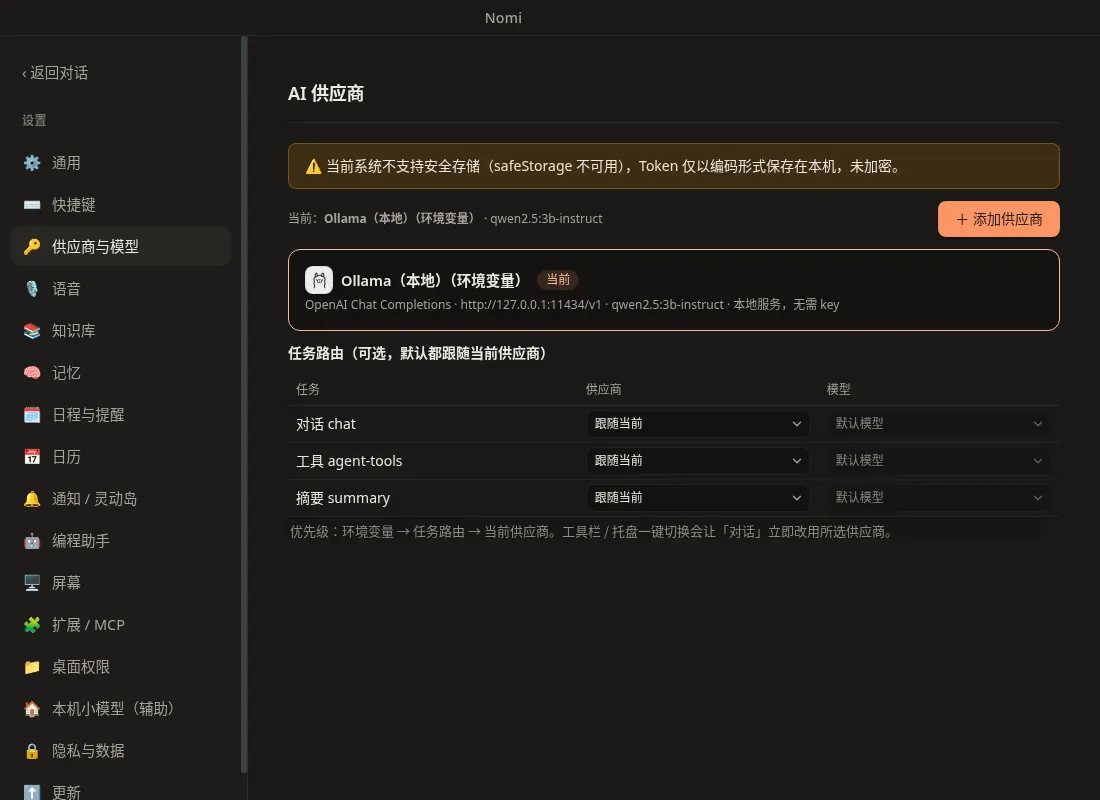
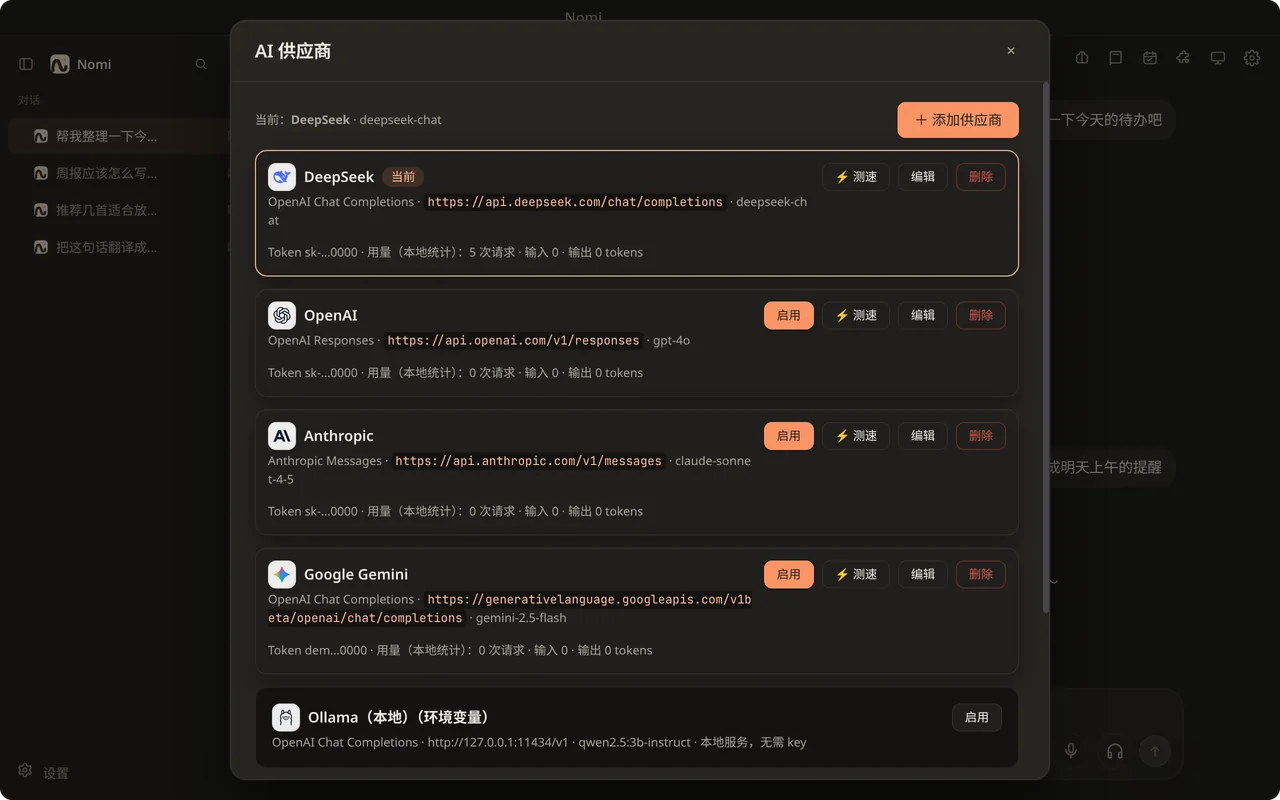
site: refresh product screenshots from app main (2x captures, 16:10 WebP 640/1280/2560), add knowledge/tools/local-models views, wire every features tab + home gallery to matching images, fix features tab layout shift

diff --git a/index.html b/index.html
@@ -12,7 +12,7 @@
   <link rel="icon" href="assets/brand/nomi-mark.svg" type="image/svg+xml" />
   <link rel="preload" href="assets/fonts/nunito-latin.woff2" as="font" type="font/woff2" crossorigin />
   <link rel="preload" as="image" href="assets/brand/nomi-brand-avatar-440.webp" imagesrcset="assets/brand/nomi-brand-avatar-440.webp 440w, assets/brand/nomi-brand-avatar-880.webp 880w" imagesizes="(max-width: 500px) calc(100vw - 6rem), 413px" fetchpriority="high" />
-  <link rel="stylesheet" href="css/styles.css?v=20261016b" />
+  <link rel="stylesheet" href="css/styles.css?v=20261016c" />
 </head>
 <body data-page="home" id="top">
   <header class="site-header">
@@ -112,7 +112,7 @@
             <p data-i18n="spot.companion.desc">分层立绘会眨眼、呼吸、说话。摸头互动，拖文件总结——她就站在你工作区的边角。</p>
           </div>
           <div class="spotlight-media spotlight-media--soft">
-            <img src="assets/screenshots/mascot.webp" data-i18n-alt="gallery.mascotAlt" alt="桌面伙伴 Nomi 立绘界面" width="330" height="355" loading="lazy" decoding="async" />
+            <img src="assets/screenshots/mascot.webp" srcset="assets/screenshots/mascot-330.webp 330w, assets/screenshots/mascot.webp 660w, assets/screenshots/mascot-2x.webp 990w" sizes="(max-width: 800px) 70vw, 22rem" data-i18n-alt="gallery.mascotAlt" alt="桌面伙伴 Nomi 的立绘、对话气泡与语音工具栏" width="660" height="710" loading="lazy" decoding="async" />
           </div>
         </div>
         <div class="spotlight spotlight--flip">
@@ -122,7 +122,7 @@
             <p data-i18n="spot.local.desc">对话与记忆留在本机；Key 加密；可开启仅本地模型。有用之外，还要让你安心。</p>
           </div>
           <div class="spotlight-media">
-            <img src="assets/screenshots/chat.webp" srcset="assets/screenshots/chat-640.webp 640w, assets/screenshots/chat.webp 1000w" sizes="(max-width: 800px) calc(100vw - 2.5rem), 560px" data-i18n-alt="gallery.chatAlt" alt="Nomi 对话窗口" width="640" height="400" loading="lazy" decoding="async" />
+            <img src="assets/screenshots/local-models.webp" srcset="assets/screenshots/local-models-640.webp 640w, assets/screenshots/local-models.webp 1280w, assets/screenshots/local-models-2x.webp 2560w" sizes="(max-width: 800px) calc(100vw - 2.5rem), 560px" data-i18n-alt="gallery.localModelsAlt" alt="本机小模型列表：按内存推荐模型，可一键下载并离线运行" width="1280" height="800" loading="lazy" decoding="async" />
           </div>
         </div>
       </div>
@@ -189,20 +189,28 @@
         </div>
         <div class="gallery">
           <figure class="gallery-item gallery-item--soft">
-            <img src="assets/screenshots/mascot.webp" data-i18n-alt="gallery.mascotAlt" alt="桌面伙伴 Nomi 立绘界面" width="330" height="355" loading="lazy" decoding="async" />
+            <img src="assets/screenshots/mascot.webp" srcset="assets/screenshots/mascot-330.webp 330w, assets/screenshots/mascot.webp 660w, assets/screenshots/mascot-2x.webp 990w" sizes="(max-width: 700px) 70vw, 22rem" data-i18n-alt="gallery.mascotAlt" alt="桌面伙伴 Nomi 的立绘、对话气泡与语音工具栏" width="660" height="710" loading="lazy" decoding="async" />
             <figcaption data-i18n="gallery.mascot">桌面伙伴</figcaption>
           </figure>
           <figure class="gallery-item">
-            <img src="assets/screenshots/chat.webp" srcset="assets/screenshots/chat-640.webp 640w, assets/screenshots/chat.webp 1000w" sizes="(max-width: 800px) calc(100vw - 2.5rem), 560px" data-i18n-alt="gallery.chatAlt" alt="Nomi 对话窗口" width="640" height="400" loading="lazy" decoding="async" />
+            <img src="assets/screenshots/chat.webp" srcset="assets/screenshots/chat-640.webp 640w, assets/screenshots/chat.webp 1280w, assets/screenshots/chat-2x.webp 2560w" sizes="(max-width: 700px) calc(100vw - 2.5rem), 560px" data-i18n-alt="gallery.chatAlt" alt="Nomi 对话窗口：左侧是会话列表，右侧是整理今日待办的对话" width="1280" height="800" loading="lazy" decoding="async" />
             <figcaption data-i18n="gallery.chat">对话窗口</figcaption>
           </figure>
           <figure class="gallery-item">
-            <img src="assets/screenshots/command-palette.webp" srcset="assets/screenshots/command-palette-640.webp 640w, assets/screenshots/command-palette.webp 1100w" sizes="(max-width: 800px) calc(100vw - 2.5rem), 560px" data-i18n-alt="gallery.paletteAlt" alt="命令面板 Ctrl/⌘+K" width="640" height="400" loading="lazy" decoding="async" />
+            <img src="assets/screenshots/command-palette.webp" srcset="assets/screenshots/command-palette-640.webp 640w, assets/screenshots/command-palette.webp 1280w, assets/screenshots/command-palette-2x.webp 2560w" sizes="(max-width: 700px) calc(100vw - 2.5rem), 560px" data-i18n-alt="gallery.paletteAlt" alt="命令面板（Ctrl/⌘+K）：搜索并执行新对话、设置、记忆等命令" width="1280" height="800" loading="lazy" decoding="async" />
             <figcaption data-i18n="gallery.palette">命令面板（Ctrl/⌘+K）</figcaption>
           </figure>
           <figure class="gallery-item">
-            <img src="assets/screenshots/settings-providers.webp" srcset="assets/screenshots/settings-providers-640.webp 640w, assets/screenshots/settings-providers.webp 1100w" sizes="(max-width: 800px) calc(100vw - 2.5rem), 560px" data-i18n-alt="gallery.providersAlt" alt="供应商与模型设置" width="640" height="400" loading="lazy" decoding="async" />
+            <img src="assets/screenshots/settings-providers.webp" srcset="assets/screenshots/settings-providers-640.webp 640w, assets/screenshots/settings-providers.webp 1280w, assets/screenshots/settings-providers-2x.webp 2560w" sizes="(max-width: 700px) calc(100vw - 2.5rem), 560px" data-i18n-alt="gallery.providersAlt" alt="AI 供应商面板：DeepSeek、OpenAI、Anthropic、Gemini 与本地 Ollama" width="1280" height="800" loading="lazy" decoding="async" />
             <figcaption data-i18n="gallery.providers">供应商与模型</figcaption>
+          </figure>
+          <figure class="gallery-item">
+            <img src="assets/screenshots/knowledge.webp" srcset="assets/screenshots/knowledge-640.webp 640w, assets/screenshots/knowledge.webp 1280w, assets/screenshots/knowledge-2x.webp 2560w" sizes="(max-width: 700px) calc(100vw - 2.5rem), 560px" data-i18n-alt="gallery.knowledgeAlt" alt="本地知识库检索：按关键词命中文件夹里的笔记，并标出来源文档" width="1280" height="800" loading="lazy" decoding="async" />
+            <figcaption data-i18n="gallery.knowledge">本地知识库</figcaption>
+          </figure>
+          <figure class="gallery-item">
+            <img src="assets/screenshots/tools.webp" srcset="assets/screenshots/tools-640.webp 640w, assets/screenshots/tools.webp 1280w, assets/screenshots/tools-2x.webp 2560w" sizes="(max-width: 700px) calc(100vw - 2.5rem), 560px" data-i18n-alt="gallery.toolsAlt" alt="桌面工具权限：只读工具默认允许，写入需确认，删除需逐次确认" width="1280" height="800" loading="lazy" decoding="async" />
+            <figcaption data-i18n="gallery.tools">工具权限</figcaption>
           </figure>
         </div>
       </div>
@@ -294,7 +302,7 @@
       </div>
     </div>
   </footer>
-  <script src="js/i18n.js?v=20261016b"></script>
-  <script src="js/main.js?v=20261016b"></script>
+  <script src="js/i18n.js?v=20261016c"></script>
+  <script src="js/main.js?v=20261016c"></script>
 </body>
 </html>

diff --git a/features.html b/features.html
@@ -8,7 +8,8 @@
   <title>功能 — Nomi·诺米</title>
   <link rel="icon" href="assets/brand/nomi-mark.svg" type="image/svg+xml" />
   <link rel="preload" href="assets/fonts/nunito-latin.woff2" as="font" type="font/woff2" crossorigin />
-  <link rel="stylesheet" href="css/styles.css?v=20261016b" />
+  <script>document.documentElement.className+=" js"</script>
+  <link rel="stylesheet" href="css/styles.css?v=20261016c" />
 </head>
 <body data-page="features">
   <header class="site-header">
@@ -75,7 +76,7 @@
           <div class="cap-panels">
           <section class="cap-panel" role="tabpanel" id="panel-companion" aria-labelledby="tab-companion" tabindex="0">
             <figure class="cap-visual cap-visual--soft">
-              <img src="assets/screenshots/mascot.webp" data-i18n-alt="gallery.mascotAlt" alt="桌面伙伴 Nomi 立绘界面" width="330" height="355" decoding="async" />
+              <img src="assets/screenshots/mascot.webp" srcset="assets/screenshots/mascot-330.webp 330w, assets/screenshots/mascot.webp 660w, assets/screenshots/mascot-2x.webp 990w" sizes="15rem" data-i18n-alt="gallery.mascotAlt" alt="桌面伙伴 Nomi 的立绘、对话气泡与语音工具栏" width="660" height="710" decoding="async" />
             </figure>
             <div class="cap-copy">
               <h3 data-i18n="ft.companion.t">桌面伙伴与语音</h3>
@@ -88,7 +89,7 @@
           </section>
           <section class="cap-panel" role="tabpanel" id="panel-chat" aria-labelledby="tab-chat" tabindex="0">
             <figure class="cap-visual cap-visual--shot">
-              <img src="assets/screenshots/chat.webp" srcset="assets/screenshots/chat-640.webp 640w, assets/screenshots/chat.webp 1000w" sizes="(max-width: 860px) calc(100vw - 2.5rem), 480px" data-i18n-alt="gallery.chatAlt" alt="Nomi 对话窗口" width="1000" height="760" loading="lazy" decoding="async" />
+              <img src="assets/screenshots/chat.webp" srcset="assets/screenshots/chat-640.webp 640w, assets/screenshots/chat.webp 1280w, assets/screenshots/chat-2x.webp 2560w" sizes="(max-width: 860px) calc(100vw - 2.5rem), 480px" data-i18n-alt="gallery.chatAlt" alt="Nomi 对话窗口：左侧是会话列表，右侧是整理今日待办的对话" width="1280" height="800" loading="lazy" decoding="async" />
             </figure>
             <div class="cap-copy">
               <h3 data-i18n="ft.chat.t">对话与屏幕问答</h3>
@@ -101,7 +102,7 @@
           </section>
           <section class="cap-panel" role="tabpanel" id="panel-memory" aria-labelledby="tab-memory" tabindex="0">
             <figure class="cap-visual cap-visual--shot">
-              <img src="assets/screenshots/command-palette.webp" srcset="assets/screenshots/command-palette-640.webp 640w, assets/screenshots/command-palette.webp 1100w" sizes="(max-width: 860px) calc(100vw - 2.5rem), 480px" data-i18n-alt="gallery.paletteAlt" alt="命令面板 Ctrl/⌘+K" width="1100" height="800" loading="lazy" decoding="async" />
+              <img src="assets/screenshots/knowledge.webp" srcset="assets/screenshots/knowledge-640.webp 640w, assets/screenshots/knowledge.webp 1280w, assets/screenshots/knowledge-2x.webp 2560w" sizes="(max-width: 860px) calc(100vw - 2.5rem), 480px" data-i18n-alt="gallery.knowledgeAlt" alt="本地知识库检索：按关键词命中文件夹里的笔记，并标出来源文档" width="1280" height="800" loading="lazy" decoding="async" />
             </figure>
             <div class="cap-copy">
               <h3 data-i18n="ft.memory.t">知识库与长期记忆</h3>
@@ -113,8 +114,8 @@
             </div>
           </section>
           <section class="cap-panel" role="tabpanel" id="panel-tools" aria-labelledby="tab-tools" tabindex="0">
-            <figure class="cap-visual cap-visual--soft">
-              <img src="assets/brand/nomi-brand-avatar-440.webp" srcset="assets/brand/nomi-brand-avatar-440.webp 440w, assets/brand/nomi-brand-avatar-880.webp 880w" sizes="(max-width: 860px) 60vw, 280px" data-i18n-alt="hero.avatarAlt" alt="Nomi·诺米 官方品牌立绘" width="440" height="440" loading="lazy" decoding="async" />
+            <figure class="cap-visual cap-visual--shot">
+              <img src="assets/screenshots/tools.webp" srcset="assets/screenshots/tools-640.webp 640w, assets/screenshots/tools.webp 1280w, assets/screenshots/tools-2x.webp 2560w" sizes="(max-width: 860px) calc(100vw - 2.5rem), 480px" data-i18n-alt="gallery.toolsAlt" alt="桌面工具权限：只读工具默认允许，写入需确认，删除需逐次确认" width="1280" height="800" loading="lazy" decoding="async" />
             </figure>
             <div class="cap-copy">
               <h3 data-i18n="ft.tools.t">自动化与 MCP</h3>
@@ -127,7 +128,7 @@
           </section>
           <section class="cap-panel" role="tabpanel" id="panel-local" aria-labelledby="tab-local" tabindex="0">
             <figure class="cap-visual cap-visual--shot">
-              <img src="assets/screenshots/settings-providers.webp" srcset="assets/screenshots/settings-providers-640.webp 640w, assets/screenshots/settings-providers.webp 1100w" sizes="(max-width: 860px) calc(100vw - 2.5rem), 480px" data-i18n-alt="gallery.providersAlt" alt="供应商与模型设置" width="1100" height="800" loading="lazy" decoding="async" />
+              <img src="assets/screenshots/settings-providers.webp" srcset="assets/screenshots/settings-providers-640.webp 640w, assets/screenshots/settings-providers.webp 1280w, assets/screenshots/settings-providers-2x.webp 2560w" sizes="(max-width: 860px) calc(100vw - 2.5rem), 480px" data-i18n-alt="gallery.providersAlt" alt="AI 供应商面板：DeepSeek、OpenAI、Anthropic、Gemini 与本地 Ollama" width="1280" height="800" loading="lazy" decoding="async" />
             </figure>
             <div class="cap-copy">
               <h3 data-i18n="ft.local.t">本地优先，模型自由</h3>
@@ -212,8 +213,8 @@
       </div>
     </div>
   </footer>
-  <script src="js/i18n.js?v=20261016b"></script>
-  <script src="js/main.js?v=20261016b"></script>
-  <script src="js/features.js?v=20261016b"></script>
+  <script src="js/i18n.js?v=20261016c"></script>
+  <script src="js/main.js?v=20261016c"></script>
+  <script src="js/features.js?v=20261016c"></script>
 </body>
 </html>

diff --git a/js/i18n.js b/js/i18n.js
@@ -79,10 +79,16 @@
       "gallery.chat": "对话窗口",
       "gallery.palette": "命令面板（Ctrl/⌘+K）",
       "gallery.providers": "供应商与模型",
-      "gallery.mascotAlt": "桌面伙伴 Nomi 立绘界面",
-      "gallery.chatAlt": "Nomi 对话窗口",
-      "gallery.paletteAlt": "命令面板 Ctrl/⌘+K",
-      "gallery.providersAlt": "供应商与模型设置",
+      "gallery.knowledge": "本地知识库",
+      "gallery.tools": "工具权限",
+      "gallery.localModels": "本机小模型",
+      "gallery.mascotAlt": "桌面伙伴 Nomi 的立绘、对话气泡与语音工具栏",
+      "gallery.chatAlt": "Nomi 对话窗口：左侧是会话列表，右侧是整理今日待办的对话",
+      "gallery.paletteAlt": "命令面板（Ctrl/⌘+K）：搜索并执行新对话、设置、记忆等命令",
+      "gallery.providersAlt": "AI 供应商面板：DeepSeek、OpenAI、Anthropic、Gemini 与本地 Ollama",
+      "gallery.knowledgeAlt": "本地知识库检索：按关键词命中文件夹里的笔记，并标出来源文档",
+      "gallery.toolsAlt": "桌面工具权限：只读工具默认允许，写入需确认，删除需逐次确认",
+      "gallery.localModelsAlt": "本机小模型列表：按内存推荐模型，可一键下载并离线运行",
 
       "privacy.band.title": "隐私是品牌的一部分",
       "privacy.band.desc": "对话、记忆、知识库与日程都只保存在你的电脑上。可开启「仅本地模型」，敏感内容不发往云端。",
@@ -338,10 +344,16 @@
       "gallery.chat": "Chat window",
       "gallery.palette": "Command palette (Ctrl/⌘+K)",
       "gallery.providers": "Providers & models",
-      "gallery.mascotAlt": "Nomi desktop companion view",
-      "gallery.chatAlt": "Nomi chat window",
-      "gallery.paletteAlt": "Command palette Ctrl/⌘+K",
-      "gallery.providersAlt": "Provider and model settings",
+      "gallery.knowledge": "Local knowledge base",
+      "gallery.tools": "Tool permissions",
+      "gallery.localModels": "Local models",
+      "gallery.mascotAlt": "Nomi the desktop companion with a chat bubble and the voice toolbar",
+      "gallery.chatAlt": "Nomi chat window: conversation list on the left, a conversation about today's to-dos on the right",
+      "gallery.paletteAlt": "Command palette (Ctrl/⌘+K) for new chat, settings, memory and more",
+      "gallery.providersAlt": "AI providers panel: DeepSeek, OpenAI, Anthropic, Gemini and local Ollama",
+      "gallery.knowledgeAlt": "Local knowledge base search: matching passages from your folder, with source documents",
+      "gallery.toolsAlt": "Desktop tool permissions: read-only tools allowed, writes need confirmation, deletes always ask",
+      "gallery.localModelsAlt": "Local models list: memory-based recommendation, one-click download, runs offline",
 
       "privacy.band.title": "Privacy is part of the brand",
       "privacy.band.desc": "Chats, memory, knowledge base, and schedules stay on your computer. Enable local-only mode so sensitive content never leaves.",

diff --git a/css/styles.css b/css/styles.css
@@ -745,7 +745,7 @@ h3 { font-size: 1.25rem; letter-spacing: -0.02em; }
 .gallery-item img {
   display: block;
   width: 100%;
-  aspect-ratio: 11 / 8; /* app screenshots are ~4:3; contain = never cropped */
+  aspect-ratio: 16 / 10; /* app screenshots are 1280×800 (16:10); contain = never cropped */
   object-fit: contain;
   background: #1a1410;
 }
@@ -844,9 +844,9 @@ h3 { font-size: 1.25rem; letter-spacing: -0.02em; }
   position: sticky;
   top: calc(var(--header-h) + 1rem);
 }
-.caps:not(.is-enhanced) { grid-template-columns: 1fr; }
-.caps:not(.is-enhanced) .cap-tablist { display: none; }
-.caps:not(.is-enhanced) .cap-panels { display: grid; gap: 1.25rem; }
+html:not(.js) .caps { grid-template-columns: 1fr; }
+html:not(.js) .cap-tablist { display: none; }
+html:not(.js) .cap-panels { display: grid; gap: 1.25rem; }
 .cap-tab {
   display: flex;
   align-items: center;
@@ -892,6 +892,8 @@ h3 { font-size: 1.25rem; letter-spacing: -0.02em; }
 }
 @media (min-width: 961px) { .cap-panel { min-height: 23rem; } }
 .cap-panel[hidden] { display: none; }
+/* before features.js enhances: show only the first panel (no layout shift); without JS all panels stay stacked */
+.js .caps:not(.is-enhanced) .cap-panel + .cap-panel { display: none; }
 .cap-panel:focus-visible { outline: 3px solid var(--nomi-hover); outline-offset: 3px; }
 .cap-visual {
   margin: 0;

diff --git a/changelog.html b/changelog.html
@@ -11,7 +11,7 @@
   <title>更新日志 — Nomi·诺米</title>
   <link rel="icon" href="assets/brand/nomi-mark.svg" type="image/svg+xml" />
   <link rel="preload" href="assets/fonts/nunito-latin.woff2" as="font" type="font/woff2" crossorigin />
-  <link rel="stylesheet" href="css/styles.css?v=20261016b" />
+  <link rel="stylesheet" href="css/styles.css?v=20261016c" />
 </head>
 <body data-page="changelog" id="top">
   <header class="site-header">
@@ -123,7 +123,7 @@
       </div>
     </div>
   </footer>
-  <script src="js/i18n.js?v=20261016b"></script>
-  <script src="js/main.js?v=20261016b"></script>
+  <script src="js/i18n.js?v=20261016c"></script>
+  <script src="js/main.js?v=20261016c"></script>
 </body>
 </html>

diff --git a/download.html b/download.html
@@ -8,7 +8,7 @@
   <title>下载 — Nomi·诺米</title>
   <link rel="icon" href="assets/brand/nomi-mark.svg" type="image/svg+xml" />
   <link rel="preload" href="assets/fonts/nunito-latin.woff2" as="font" type="font/woff2" crossorigin />
-  <link rel="stylesheet" href="css/styles.css?v=20261016b" />
+  <link rel="stylesheet" href="css/styles.css?v=20261016c" />
 </head>
 <body data-page="download">
   <header class="site-header">
@@ -155,7 +155,7 @@
       </div>
     </div>
   </footer>
-  <script src="js/i18n.js?v=20261016b"></script>
-  <script src="js/main.js?v=20261016b"></script>
+  <script src="js/i18n.js?v=20261016c"></script>
+  <script src="js/main.js?v=20261016c"></script>
 </body>
 </html>

diff --git a/privacy.html b/privacy.html
@@ -8,7 +8,7 @@
   <title>隐私 — Nomi·诺米</title>
   <link rel="icon" href="assets/brand/nomi-mark.svg" type="image/svg+xml" />
   <link rel="preload" href="assets/fonts/nunito-latin.woff2" as="font" type="font/woff2" crossorigin />
-  <link rel="stylesheet" href="css/styles.css?v=20261016b" />
+  <link rel="stylesheet" href="css/styles.css?v=20261016c" />
 </head>
 <body data-page="privacy">
   <header class="site-header">
@@ -112,7 +112,7 @@
       </div>
     </div>
   </footer>
-  <script src="js/i18n.js?v=20261016b"></script>
-  <script src="js/main.js?v=20261016b"></script>
+  <script src="js/i18n.js?v=20261016c"></script>
+  <script src="js/main.js?v=20261016c"></script>
 </body>
 </html>

diff --git a/docs.html b/docs.html
@@ -8,7 +8,7 @@
   <title>文档 — Nomi·诺米</title>
   <link rel="icon" href="assets/brand/nomi-mark.svg" type="image/svg+xml" />
   <link rel="preload" href="assets/fonts/nunito-latin.woff2" as="font" type="font/woff2" crossorigin />
-  <link rel="stylesheet" href="css/styles.css?v=20261016b" />
+  <link rel="stylesheet" href="css/styles.css?v=20261016c" />
 </head>
 <body data-page="docs">
   <header class="site-header">
@@ -234,7 +234,7 @@
       </div>
     </div>
   </footer>
-  <script src="js/i18n.js?v=20261016b"></script>
-  <script src="js/main.js?v=20261016b"></script>
+  <script src="js/i18n.js?v=20261016c"></script>
+  <script src="js/main.js?v=20261016c"></script>
 </body>
 </html>
